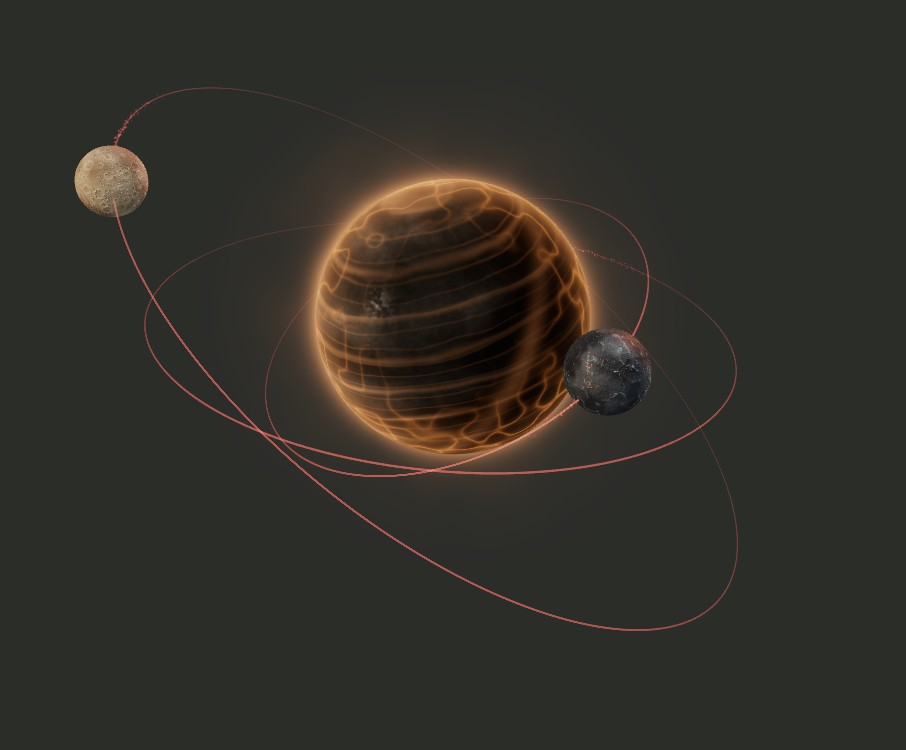
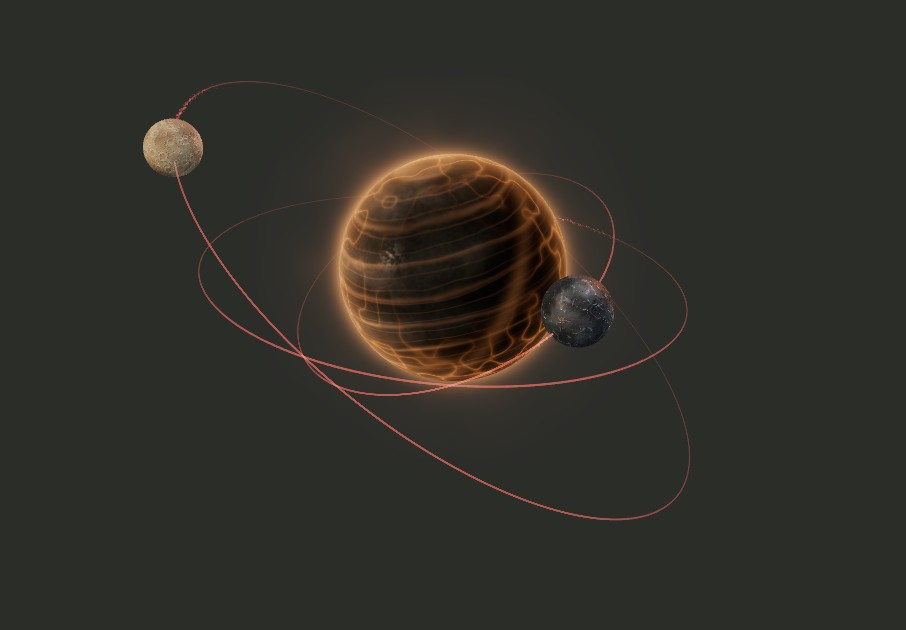
feat(#13): bigger selected moons with their own spin; calm Overview transitions
Brandon (round 12): "Now the plannets are too small. WE need to zoom in
more but keep it cented so the whole annimation is in frame"; "the moons
themselves also have to have their own rotation"; the Overview transitions
were "very jarring" while moon-to-moon felt smooth — "the Overview page and
component may no longer be consistent with other pay layouts and sizing".

- orbits.ts: the collection fit samples one extreme per direction (loops
  1.7r out, observer 1.7r up, row circuit 1.45r down) instead of a bounding
  sphere, and drops the toolbar/dock reserves this stage no longer has
  (controls moved to the copy column in round 6). The selected moon's disc
  grows ~40% (310px vs 220px at 2000x1240) with all edge strips still clean.
- map-scene.ts: moon axial spin rides microT instead of simT, which froze
  the chosen moon mid-turn while a model was selected; the clocks tick
  together until the first selection, so the change is seamless. Pause and
  reduced motion still freeze it.
- OrbitStage.astro: the work overview stage adopts the Home hero's clamp
  (540px / 100svh-270 / 740px) — it was the tallest box on the site, and the
  enter/leave height ride drops from ~170px to 20-50px.
- services.astro + state.ts: the height ride matches the 850ms flight
  (cubic-bezier ease-in-out), and returning to the Overview fades its
  sections back in (one-shot wwm-returning class; first paint and deep
  links stay animation-free). work-desktop poster recaptured at the new
[…]

diff --git a/src/lib/orbit/orbits.ts b/src/lib/orbit/orbits.ts
@@ -300,12 +300,21 @@ export function collectionSamples() {
   if (!collectionCache) {
     // The selected view holds the zoomed body plus its mission's whole flight envelope
     // (Brandon, 2026-10-12 round 11: "The annimation is out of frame"): the loops reach
-    // ~1.7r out plus craft size, and Advisory's observer holds station 1.7r straight up
-    // (formation-craft.ts). The retired child moons no longer steer this camera.
+    // ~1.7r out plus craft size, the observer holds station 1.7r straight up, and the
+    // row circuit dips 1.45r below (formation-craft.ts). The travel frame rotates with
+    // the orbit, so the side reach applies in every horizontal direction. One sample per
+    // extreme keeps the fit tight — a single bounding sphere cost ~a fifth of the moon's
+    // size (Brandon, round 12: "the plannets are too small … zoom in more but keep it
+    // cented so the whole annimation is in frame").
     const R = Math.max(...CENTER_SCALES.map((s, i) => s * BODY_RADII[i])) * CENTER_ZOOM;
     collectionCache = [
-      { p: [0, 0, 0], r: R * 1.85 },
-      { p: [0, R * 1.7, 0], r: R * 0.3 },
+      { p: [0, 0, 0], r: R * 1.03 },
+      { p: [0, R * 1.7, 0], r: R * 0.28 },
+      { p: [0, -R * 1.45, 0], r: R * 0.2 },
+      { p: [R * 1.7, 0, 0], r: R * 0.18 },
+      { p: [-R * 1.7, 0, 0], r: R * 0.18 },
+      { p: [0, 0, R * 1.7], r: R * 0.18 },
+      { p: [0, 0, -R * 1.7], r: R * 0.18 },
     ];
   }
   return collectionCache;
@@ -368,10 +377,13 @@ export function overviewPose(width: number, height: number, layout: Layout = DEF
   return fitPose(overviewSamples(layout), width / height, stageFrame(width, height));
 }
 export function collectionPose(width: number, height: number) {
+  // The selected stage carries no toolbar or dock overlay (the controls moved to the
+  // copy column, round 6), so it keeps only a slim breathing edge instead of the
+  // overview's reserves — the moon reads bigger in the same box.
   return fitPose(
     collectionSamples(),
     width / height,
-    stageFrame(width, height),
+    stageFrame(width, height, { top: 20, bottom: 24 }),
   );
 }
 /** Kept for callers of the first proof: overview distance for an aspect. */

diff --git a/src/components/orbit/wwm/state.ts b/src/components/orbit/wwm/state.ts
@@ -89,7 +89,15 @@ export function initWorkWithMe(): (() => void) | undefined {
   if (hero) watch.observe(hero, { subtree: true, attributes: true, attributeFilter: ['aria-pressed', 'class', 'data-mode'] });
 
   /* ---- state ---------------------------------------------------------------------------- */
+  let returning: ReturnType<typeof setTimeout> | undefined;
   function apply(slug: Slug | null, origin: Origin) {
+    // Returning to the Overview fades its sections back in (round 12: the pop was jarring);
+    // the one-shot class keeps the first paint and deep links animation-free.
+    if (!slug && current && origin !== 'init') {
+      root.classList.add('wwm-returning');
+      clearTimeout(returning);
+      returning = setTimeout(() => root.classList.remove('wwm-returning'), 450);
+    }
     current = slug;
     root.dataset.state = slug ? 'selected' : 'overview';
     selector.hidden = !!slug;
@@ -212,5 +220,6 @@ export function initWorkWithMe(): (() => void) | undefined {
     ctl.abort();
     watch.disconnect();
     switcherSize.disconnect();
+    clearTimeout(returning);
   };
 }

diff --git a/src/lib/orbit/map-scene.ts b/src/lib/orbit/map-scene.ts
@@ -1327,8 +1327,12 @@ export function createMap(
           m.rotateZ(0.35);
         }
       } else {
-        m.rotation.x = 0.3 + simT * 0.045;
-        m.rotation.y = 0.5 + simT * 0.1;
+        // Axial spin rides microT, not simT: simT freezes while a model is selected, which
+        // froze the chosen moon mid-turn (Brandon, 2026-10-12 round 12: "the moons themselves
+        // also have to have their own rotation"). The clocks tick together until the first
+        // selection, so the swap is seamless; Pause and reduced motion still freeze both.
+        m.rotation.x = 0.3 + microT * 0.045;
+        m.rotation.y = 0.5 + microT * 0.1;
       }
       const lit = emphasized === id;
       setGlow(
